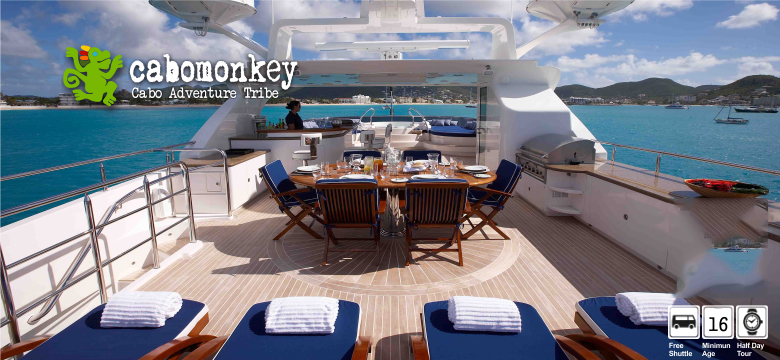
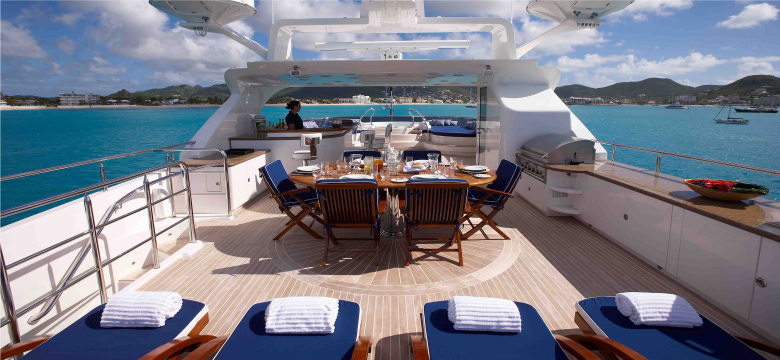
Updated qrcode styles.

Changed region(s): [[0.8308, 0.55, 0.9846, 1.0], [0.0615, 0.1222, 0.4, 0.3056]]

diff --git a/wp-content/themes/cabomonkey/custom.css b/wp-content/themes/cabomonkey/custom.css
@@ -188,10 +188,16 @@ html body {
           html body #page #content #primary .offer .image .meta {
             bottom: 54px;
             position: absolute;
-            right: 10px;
+            right: 12px;
             width: 100px; }
             html body #page #content #primary .offer .image .meta .qrcode {
+              -webkit-border-radius: 4px;
+              -moz-border-radius: 4px;
+              -ms-border-radius: 4px;
+              -o-border-radius: 4px;
+              border-radius: 4px;
               height: 100px;
+              overflow: hidden;
               width: 100%; }
               html body #page #content #primary .offer .image .meta .qrcode a {
                 display: none !important; }

diff --git a/wp-content/themes/cabomonkey/custom.scss b/wp-content/themes/cabomonkey/custom.scss
@@ -257,11 +257,13 @@ html {
               .meta {
                 bottom: 54px;
                 position: absolute;
-                right: 10px;
+                right: 12px;
                 width: 100px;
 
                 .qrcode {
+                  @include border-radius(4px);
                   height: 100px;
+                  overflow: hidden;
                   width: 100%;
 
                   a {
